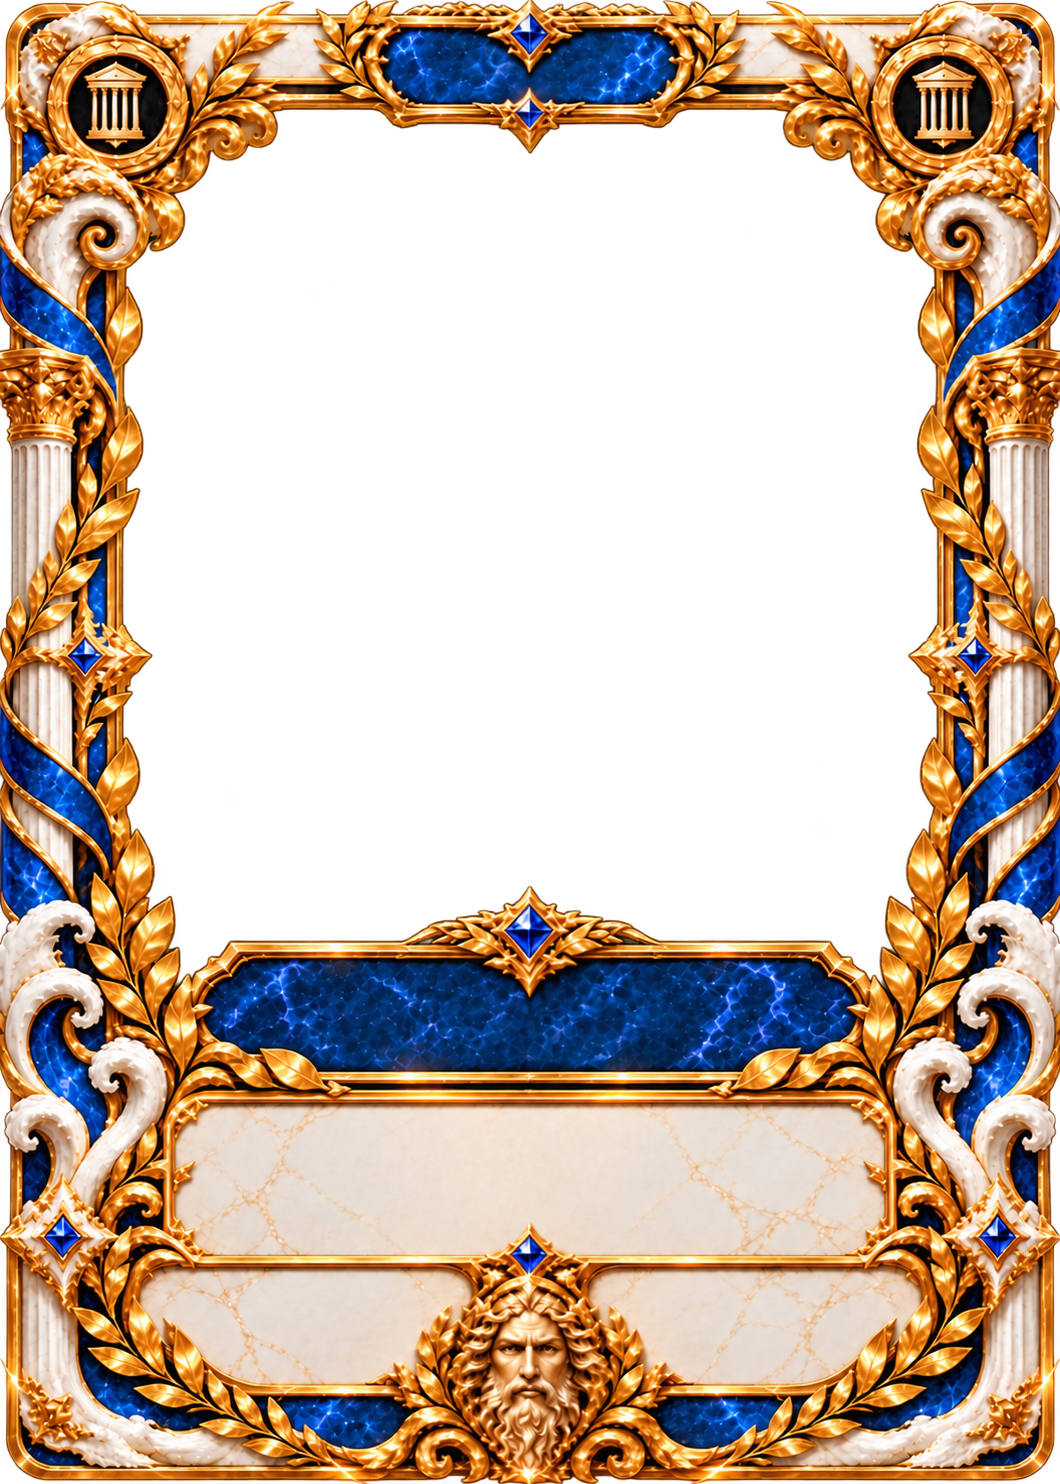
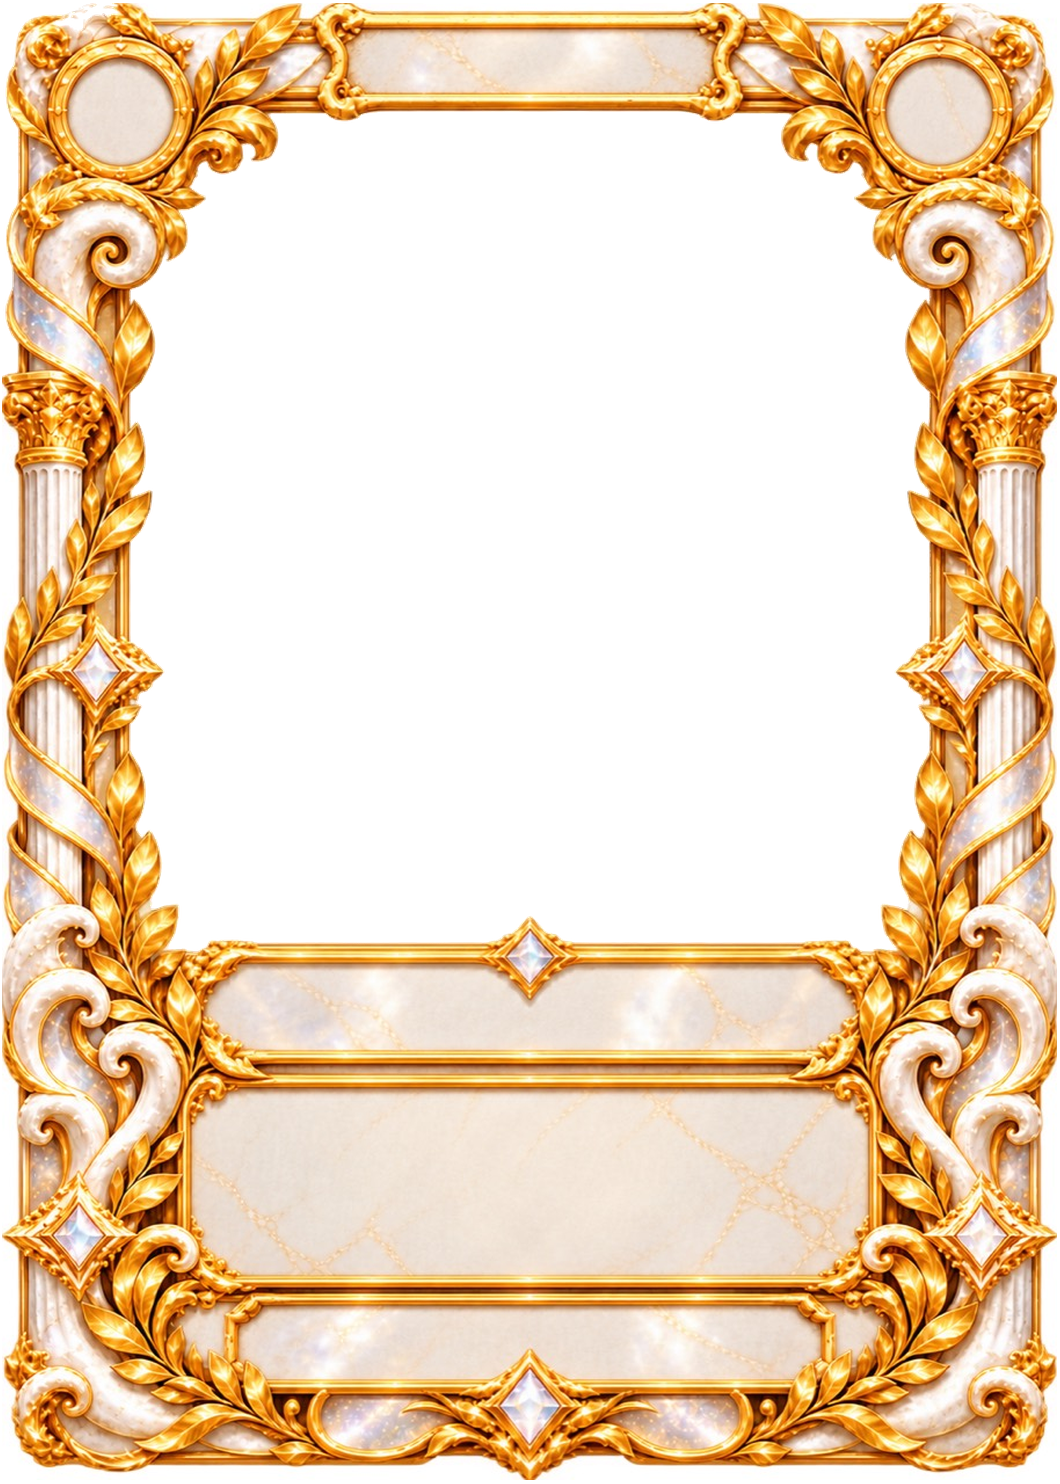
Replace rarity frames and restore card labels

diff --git a/src/components/CardFront.tsx b/src/components/CardFront.tsx
@@ -30,17 +30,46 @@ export function CardFront({
     width,
     card.id === "olympe-30" ? 914 / 1280 : 5 / 7,
   );
-  const ink = card.rarity === 0 || card.rarity === 4 ? "#29231b" : theme.paper;
   const collection =
     EXTENSIONS.find((e) => e.id === card.extension)?.name ?? card.extension;
+  const numberSeal = card.number?.replace("-", "\n") ?? "—";
+  const extensionSeal = {
+    olympe: "EXT.\nI",
+    titans: "EXT.\nII",
+    heros: "EXT.\nIII",
+    creatures: "EXT.\nIV",
+  }[card.extension] ?? card.extension.toUpperCase();
   const unit = width / CARD_REFERENCE.width;
-  // Measured inner cartouches of the seven master PNGs (not one shared offset).
+  const newFrame = card.rarity > 0;
+  // Measured inner cartouches of the owner-supplied master PNGs.
   const nameBox = [
-    { top: 0.681, height: 0.043 }, { top: 0.659, height: 0.045 },
-    { top: 0.673, height: 0.043 }, { top: 0.670, height: 0.043 },
-    { top: 0.665, height: 0.040 }, { top: 0.675, height: 0.047 },
-    { top: 0.673, height: 0.043 },
+    { top: 0.681, height: 0.043, left: 0.19, right: 0.19 },
+    { top: 0.628, height: 0.089, left: 0.18, right: 0.18 },
+    { top: 0.621, height: 0.097, left: 0.18, right: 0.18 },
+    { top: 0.621, height: 0.098, left: 0.18, right: 0.18 },
+    { top: 0.617, height: 0.086, left: 0.18, right: 0.18 },
+    { top: 0.624, height: 0.104, left: 0.18, right: 0.18 },
+    { top: 0.638, height: 0.09, left: 0.18, right: 0.18 },
   ][card.rarity]!;
+  const descriptionBox = [
+    { top: 0.755, height: 0.09 },
+    { top: 0.725, height: 0.126 },
+    { top: 0.727, height: 0.124 },
+    { top: 0.729, height: 0.126 },
+    { top: 0.711, height: 0.14 },
+    { top: 0.738, height: 0.114 },
+    { top: 0.738, height: 0.134 },
+  ][card.rarity]!;
+  const footerBox = [
+    { top: 0.875, height: 0.05 },
+    { top: 0.861, height: 0.066 },
+    { top: 0.861, height: 0.068 },
+    { top: 0.864, height: 0.069 },
+    { top: 0.858, height: 0.071 },
+    { top: 0.861, height: 0.071 },
+    { top: 0.881, height: 0.061 },
+  ][card.rarity]!;
+  const nameInk = ["#29231b", theme.paper, theme.paper, theme.paper, "#29231b", theme.paper, "#29231b"][card.rarity]!;
   // Long descriptions must fit the ivory panel without touching the name band.
   const longDescription = (card.description?.length ?? 0) > 100;
   return (
@@ -94,28 +123,42 @@ export function CardFront({
       />
       {!compact && (
         <>
-          <View style={s.rarity}>
+          {newFrame && (
+            <>
+              <View style={s.numberSeal}>
+                <Text numberOfLines={2} adjustsFontSizeToFit style={[s.sealText, { fontSize: 40 * unit, lineHeight: 44 * unit }]}>
+                  {numberSeal}
+                </Text>
+              </View>
+              <View style={s.extensionSeal}>
+                <Text numberOfLines={2} adjustsFontSizeToFit style={[s.sealText, { fontSize: 40 * unit, lineHeight: 44 * unit }]}>
+                  {extensionSeal}
+                </Text>
+              </View>
+            </>
+          )}
+          <View style={[s.rarity, newFrame && s.rarityNew]}>
             <Text
               numberOfLines={1}
               style={{
-                color: ink,
+                color: card.rarity === 5 ? theme.paper : "#29231b",
                 fontFamily: fonts.bold,
-                fontSize: 68 * unit,
+                fontSize: (newFrame ? 55 : 68) * unit,
                 textAlign: "center",
               }}
             >
               {RARITIES[card.rarity]?.toUpperCase()}
             </Text>
           </View>
-          <View style={[s.name, { top: `${nameBox.top * 100}%`, height: `${nameBox.height * 100}%` }]}>
+          <View style={[s.name, { top: `${nameBox.top * 100}%`, height: `${nameBox.height * 100}%`, left: `${nameBox.left * 100}%`, right: `${nameBox.right * 100}%` }]}>
             <Text
               numberOfLines={1}
               adjustsFontSizeToFit
               style={{
-                color: ink,
+                color: nameInk,
                 fontFamily: fonts.bold,
-                fontSize: 100 * unit,
-                lineHeight: 110 * unit,
+                fontSize: (newFrame ? 88 : 100) * unit,
+                lineHeight: (newFrame ? 98 : 110) * unit,
                 includeFontPadding: false,
                 textAlign: "center",
               }}
@@ -123,7 +166,7 @@ export function CardFront({
               {card.name.toUpperCase()}
             </Text>
           </View>
-          <View style={s.description}>
+          <View style={[s.description, { top: `${descriptionBox.top * 100}%`, height: `${descriptionBox.height * 100}%` }]}>
             <Text
               numberOfLines={5}
               adjustsFontSizeToFit
@@ -137,27 +180,22 @@ export function CardFront({
               {card.description}
             </Text>
           </View>
-          <View style={s.footer}>
-            <Text
-              style={{
-                color: "#29231b",
-                fontFamily: fonts.bold,
-                fontSize: 45 * unit,
-              }}
-            >
-              {card.number}
-            </Text>
-            <Text
-              numberOfLines={2}
-              style={{
-                color: "#29231b",
-                fontSize: 34 * unit,
-                textAlign: "right",
-                width: "42%",
-              }}
-            >
-              {collection}
-            </Text>
+          <View style={[s.footer, { top: `${footerBox.top * 100}%`, height: `${footerBox.height * 100}%` }, newFrame && s.footerNew]}>
+            {newFrame ? (
+              <>
+                <Text numberOfLines={1} adjustsFontSizeToFit style={[s.footerEpithet, { fontSize: 39 * unit, lineHeight: 46 * unit }]}>
+                  {card.epithet?.toUpperCase() || card.name.toUpperCase()}
+                </Text>
+                <Text numberOfLines={1} adjustsFontSizeToFit style={[s.footerMeta, { fontSize: 30 * unit, lineHeight: 36 * unit }]}>
+                  {[card.category, collection].filter(Boolean).join(" · ")}
+                </Text>
+              </>
+            ) : (
+              <>
+                <Text style={{ color: "#29231b", fontFamily: fonts.bold, fontSize: 45 * unit }}>{card.number}</Text>
+                <Text numberOfLines={2} style={{ color: "#29231b", fontSize: 34 * unit, textAlign: "right", width: "42%" }}>{collection}</Text>
+              </>
+            )}
           </View>
         </>
       )}
@@ -173,6 +211,10 @@ const s = StyleSheet.create({
     height: "3.9%",
     justifyContent: "center",
   },
+  rarityNew: { top: "1.1%", left: "31%", right: "31%", height: "5.5%" },
+  numberSeal: { position: "absolute", top: "2.1%", left: "2.7%", width: "13.6%", height: "10%", alignItems: "center", justifyContent: "center" },
+  extensionSeal: { position: "absolute", top: "2.1%", right: "2.7%", width: "13.6%", height: "10%", alignItems: "center", justifyContent: "center" },
+  sealText: { color: "#29231b", fontFamily: fonts.bold, textAlign: "center", includeFontPadding: false },
   name: {
     position: "absolute",
     top: "65.2%",
@@ -199,4 +241,7 @@ const s = StyleSheet.create({
     alignItems: "center",
     justifyContent: "space-between",
   },
+  footerNew: { left: "20%", right: "20%", flexDirection: "column", justifyContent: "center", gap: 0 },
+  footerEpithet: { color: "#29231b", fontFamily: fonts.semibold, textAlign: "center", includeFontPadding: false, width: "100%" },
+  footerMeta: { color: "#554735", textAlign: "center", includeFontPadding: false, width: "100%" },
 });

diff --git a/src/domain/artworkLayout.ts b/src/domain/artworkLayout.ts
@@ -2,12 +2,12 @@
 // A small overlap stays beneath the opaque ornaments to avoid empty edge strips.
 export const FRAME_APERTURES = [
   { x: 0.111, y: 0.073, width: 0.78, height: 0.598 },
-  { x: 0.123, y: 0.073, width: 0.755, height: 0.562 },
-  { x: 0.115, y: 0.071, width: 0.772, height: 0.591 },
-  { x: 0.12, y: 0.071, width: 0.761, height: 0.582 },
-  { x: 0.118, y: 0.07, width: 0.765, height: 0.576 },
-  { x: 0.106, y: 0.07, width: 0.79, height: 0.57 },
-  { x: 0.115, y: 0.072, width: 0.77, height: 0.589 },
+  { x: 0.127, y: 0.072, width: 0.747, height: 0.561 },
+  { x: 0.114, y: 0.07, width: 0.772, height: 0.576 },
+  { x: 0.119, y: 0.069, width: 0.762, height: 0.585 },
+  { x: 0.118, y: 0.071, width: 0.766, height: 0.555 },
+  { x: 0.107, y: 0.069, width: 0.787, height: 0.57 },
+  { x: 0.121, y: 0.072, width: 0.759, height: 0.572 },
 ] as const;
 export interface ArtworkFocus {
   x: number;
